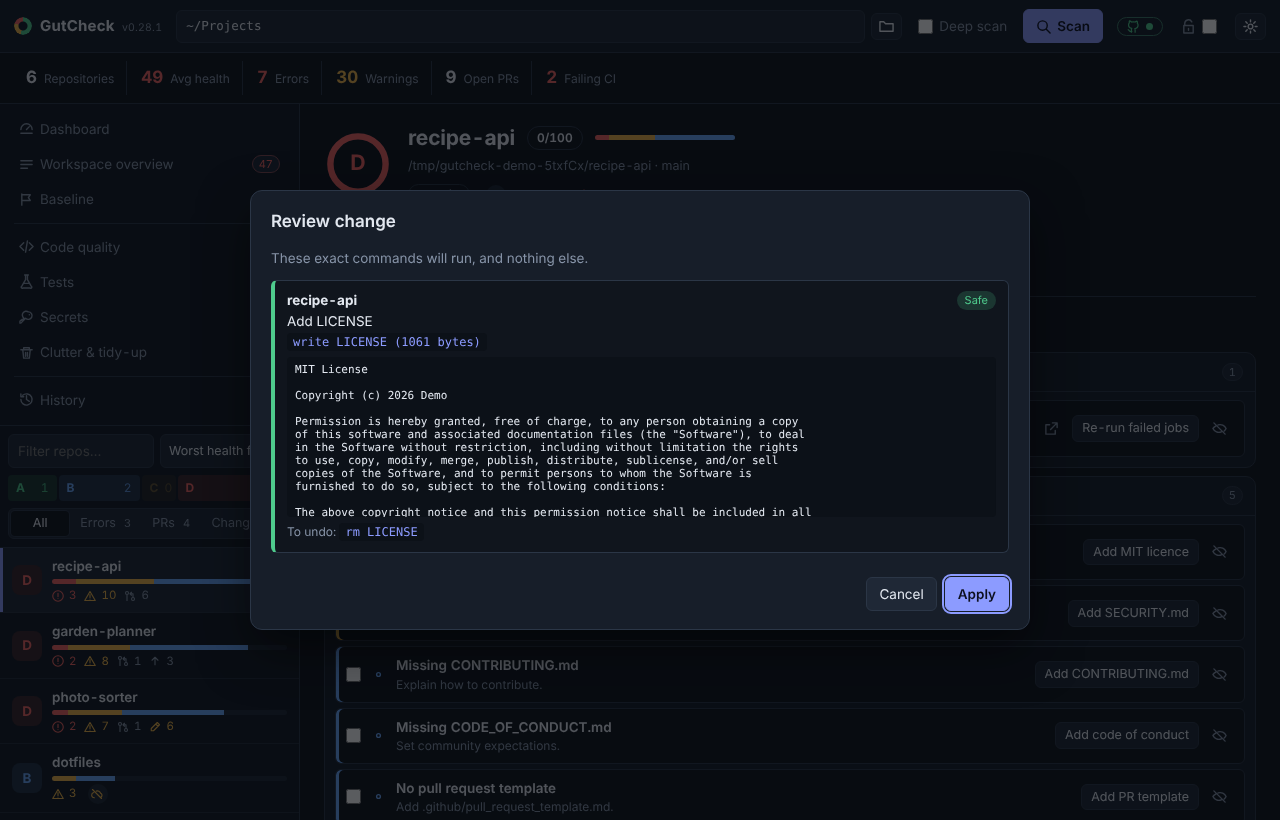
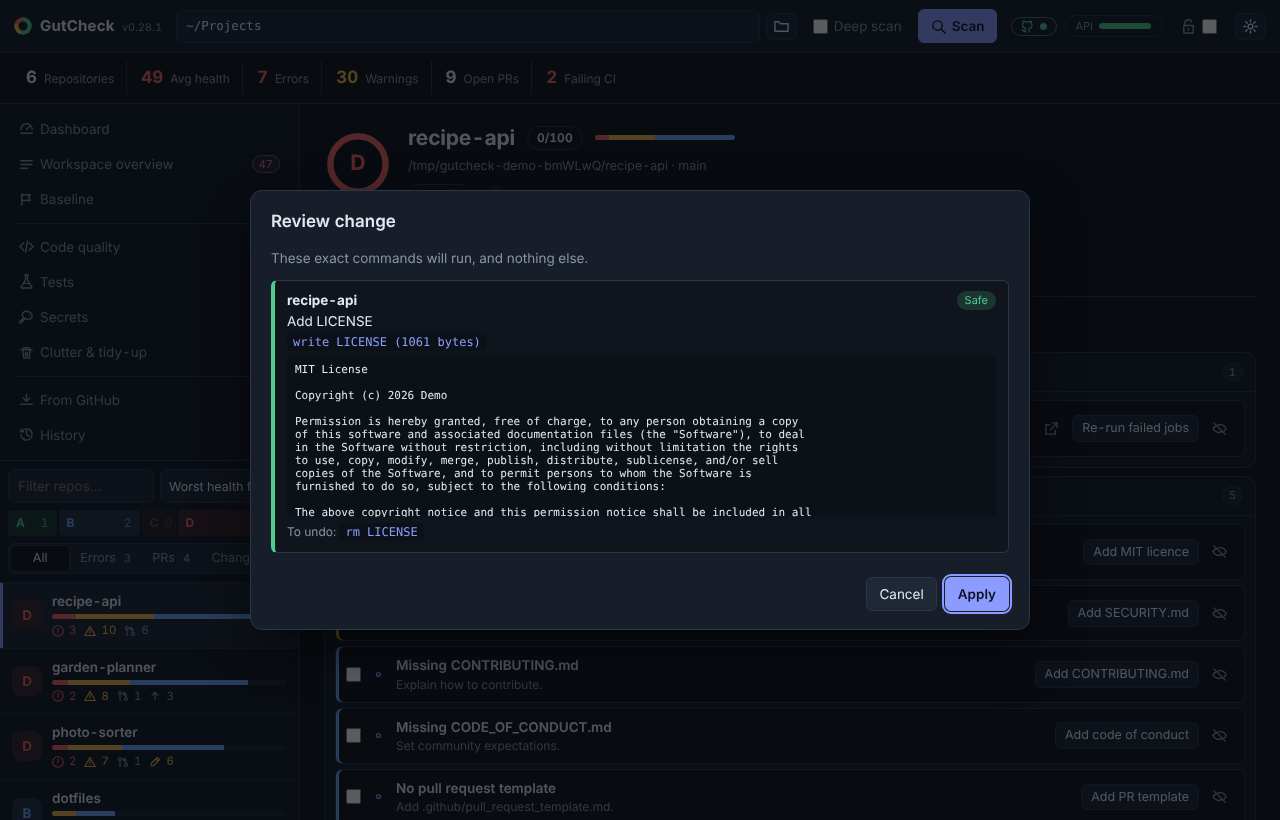
Describe the redesigned app in the README, with fresh screenshots (#10)
Adds a Using the app section (header, sidebar, repo page and tabs, bulk
actions, icons, read-only), updates the Dashboard, Actions and Ignoring
sections, and retakes every README screenshot from the demo workspace.
npm run screenshots now also takes bulk.png (ticked issues) and
github.png (From GitHub search), hides desktop scrollbars and stubs the
uQ theme channel.

Fixes a startup race the screenshots exposed: the startup code in app.js
could run before ui.js loaded, leaving the header without its gh pill
and lock icon ("UI is not defined"). It now waits for DOMContentLoaded.

Claude-Session: https://claude.ai/code/session_01HQqpuJkRXi5S6Yr5Bte71c

diff --git a/scripts/demo/screenshots.js b/scripts/demo/screenshots.js
@@ -15,6 +15,12 @@ const OUT = path.join(__dirname, '..', '..', 'docs', 'images');
 const SRC = path.join(__dirname, '..', '..', 'src');
 const DAY = 86400e3;
 const wait = (ms) => new Promise((r) => setTimeout(r, ms));
+const GITHUB_SEARCH = [
+  { owner: 'example', name: 'weather-cli', description: 'Forecasts in your terminal', stars: 12, language: 'Go', pushedAt: new Date(Date.now() - 2 * DAY).toISOString(), mine: true },
+  { owner: 'skyline-labs', name: 'weather-kit', description: 'Weather data client for Node and the browser', stars: 4210, language: 'TypeScript', pushedAt: new Date(Date.now() - 3 * DAY).toISOString() },
+  { owner: 'openmeteo-tools', name: 'weather-dash', description: 'A self-hosted weather dashboard', stars: 873, language: 'Python', pushedAt: new Date(Date.now() - 20 * DAY).toISOString() },
+  { owner: 'rainfall', name: 'weather-station', description: 'Firmware and logger for a home weather station', stars: 152, language: 'C', pushedAt: new Date(Date.now() - 400 * DAY).toISOString(), isArchived: true },
+];
 
 async function main() {
   const demo = await build();
@@ -51,6 +57,10 @@ async function main() {
     'drift:get': () => ({ file: '~/.config/GutCheck/baseline.json', rules: driftReport(demo.results, demo.baseline) }),
     'background:get': () => ({ launchOnStartup: true, minimizeToTray: true, closeToTray: true, trayAvailable: true, scheduleEnabled: true, scheduleHours: '24' }),
     'action:plan': (_e, { items }) => service.planActions(items),
+    'uq-tokens:read': () => null,
+    // From GitHub: made-up search results, one of them already in the demo folder.
+    'get:search': () => ({ ok: true, total: 41, repos: GITHUB_SEARCH.map((r) => ({ ...r, here: r.owner === 'example' ? path.join(demo.root, r.name) : null })) }),
+    'get:mine': () => ({ ok: true, repos: demo.results.map((r) => ({ owner: 'example', name: path.basename(r.path), here: r.path, mine: true })) }),
   };
   for (const ch of ['scan:one', 'action:apply', 'clutter:scan', 'quality:scan', 'tests:scan', 'quality:set', 'report:copy', 'settings:set', 'background:set', 'agents:status', 'agents:plan', 'agents:cleanup', 'agents:apply', 'agents:copy', 'open:url', 'open:folder', 'dir:pick', 'ignore:set', 'baseline:init', 'baseline:open']) H[ch] = H[ch] || (() => ({ ok: false, error: 'demo' }));
   for (const [ch, fn] of Object.entries(H)) ipcMain.handle(ch, fn);
@@ -58,6 +68,7 @@ async function main() {
   win = new BrowserWindow({ width: 1280, height: 820, show: true, backgroundColor: '#0f1115', webPreferences: { preload: path.join(SRC, 'preload.js'), contextIsolation: true, sandbox: true } });
   win.removeMenu();
   await win.loadFile(path.join(SRC, 'renderer', 'index.html'));
+  await win.webContents.insertCSS('::-webkit-scrollbar { display: none; }'); // the desktop's scrollbars are not part of the app
   const js = (code) => win.webContents.executeJavaScript(code);
   const shot = async (name) => { await wait(600); fs.writeFileSync(path.join(OUT, name), (await win.webContents.capturePage()).toPNG()); console.log('saved', name); };
   fs.mkdirSync(OUT, { recursive: true });
@@ -73,10 +84,18 @@ async function main() {
   await js("(document.querySelector('.modal button.primary') || {}).click && [...document.querySelectorAll('.modal button')].find((b) => b.textContent === 'Continue')?.click()");
   await shot('review.png');
   await js("document.querySelector('.overlay')?.remove()");
+  // Tick four of recipe-api's issues so the bulk action bar shows (each tick redraws the page).
+  for (let k = 1; k <= 4; k++) { await js(`document.querySelectorAll('.finding input.pick')[${k}].click()`); await wait(150); }
+  await shot('bulk.png');
   await js("document.getElementById('overview').click()");
   await shot('overview.png');
   await js("document.getElementById('baseline').click()");
   await shot('baseline.png');
+  await js("document.getElementById('github').click()");
+  await wait(300);
+  await js("(() => { const q = document.getElementById('ghq'); q.value = 'weather'; q.dispatchEvent(new Event('input')); })()");
+  await wait(800);
+  await shot('github.png');
   // GUTCHECK_SHOTS_ALL=<folder>: every other view and dialog too, for reviewing the UI (not the README).
   const all = process.env.GUTCHECK_SHOTS_ALL;
   if (all) {

diff --git a/src/renderer/app.js b/src/renderer/app.js
@@ -357,7 +357,9 @@ $('readonly').addEventListener('change', async (e) => {
   toast(state.readOnly ? 'Read-only mode on: no changes can be made.' : 'Read-only mode off: actions are enabled (each one still asks first).');
 });
 
-(async () => {
+// Startup waits for the page's other scripts (ui.js among them): an IPC reply can land between two
+// of them, and the header's icons would then fail with "UI is not defined".
+async function startup() {
   state.version = await window.api.version();
   $('version').textContent = state.version ? 'v' + state.version : '';
   const s = await window.api.settings();
@@ -373,4 +375,5 @@ $('readonly').addEventListener('change', async (e) => {
   pill.classList.add(a.ok ? 'ok' : 'bad');
   renderStats();
   showRate(await window.api.rate());
-})();
+}
+if (document.readyState === 'loading') document.addEventListener('DOMContentLoaded', startup); else startup();

diff --git a/README.md b/README.md
@@ -12,14 +12,15 @@
 
 A desktop dashboard that gives you a health check across every GitHub project in a folder. It is built on the [`gh` CLI](https://cli.github.com) and `git`, so it uses your existing GitHub login and never handles tokens itself. It also runs as a command line and as an MCP server, so AI coding agents can use the same checks and fixes.
 
-![The GutCheck dashboard: health grades, KPI cards and the repos that need attention](docs/images/dashboard.png)
+![The GutCheck dashboard: KPI cards grouped by Health, On GitHub and On this machine, the repo list with its grade bar, and the repos that need attention](docs/images/dashboard.png)
 
 - **One scan, every repo**: CI, pull requests, branches, docs, Actions security, dependencies, releases, settings, clutter, code quality, tests and AI agent setup, with a grade for each repo.
 - **Fixes you can see first**: every change shows the exact commands before it runs, and only those run.
+- **One at a time or many at once**: every issue, pull request, branch and missing file has its own button, and you can tick several and act on them together.
 - **Your own rules**: ignore a finding with a reason, and declare a baseline every repo should meet.
 - **Local and private**: no account, no server, no telemetry. GitHub data comes through your own `gh` login.
 
-[What it checks](#what-it-checks) · [Screenshots](#screenshots) · [Actions](#actions) · [Command line and MCP](#command-line-and-mcp-server-for-ai-agents) · [Install](#install) · [Changelog](CHANGELOG.md)
+[What it checks](#what-it-checks) · [Using the app](#using-the-app) · [Clone and fork](#clone-and-fork-from-github) · [Actions](#actions) · [Command line and MCP](#command-line-and-mcp-server-for-ai-agents) · [Install](#install) · [Changelog](CHANGELOG.md)
 
 ## What it checks
 
@@ -61,21 +62,39 @@ GutCheck can also check your GitHub repos that have no folder in the workspace. 
 - **Your repos:** every repo you own, filtered to the ones not here. Tick several and clone them together.
 - A repo in the list that is only on GitHub (see below) has **Clone here** on its page.
 
+![From GitHub: search results for "weather", one already in the folder and three with Clone and Fork](docs/images/github.png)
+
 Each is a normal change: the review shows the exact `gh repo clone` or `gh repo fork --clone` command and the folder it creates, nothing runs until you apply it, and History records it. A clone never goes on top of an existing folder or outside the scanned one, submodules are not fetched, and nothing in the repo runs. A fork makes your fork `origin` and the original `upstream`. The new clone joins the repo list straight away.
 
-## Screenshots
+## Using the app
+
+The app is built to show state rather than describe it, keep lists short, and let you act on one thing or many.
+
+- **Header**: the workspace folder, **Scan** (tick **Deep scan** for the slower checks), whether `gh` is signed in, a small gauge of the GitHub API quota left, the **Read-only** switch and Settings. Under it, the workspace totals: repos, average health, errors, warnings, open PRs and failing CI.
+- **Sidebar**: the Dashboard, Workspace overview, Baseline, the deeper scans (Code quality, Tests, Secrets, Clutter & tidy-up), From GitHub and History, with counts where there is something to see. Below them is the repo list: a grade bar (click a grade to show only those repos), quick filters (errors, PRs, uncommitted or unpushed work), a text filter and sort, and a severity strip on every repo.
+- **A repo page** opens with a score ring (its grade and score out of 100), a severity strip, and its live git state: branch, uncommitted changes, commits to push or pull, open PRs and CI. Then **Fix all issues** and icon buttons to rescan, fetch and prune, open the folder, open it on GitHub and copy the report for an LLM. The rest is split into tabs, each with its count:
+  - **Issues**, folded by category and filtered by severity. Each has its own fix and an ignore button.
+  - **Pull requests**, to merge, close or mark ready, one at a time or together.
+  - **Branches**, filtered to merged, stale, local only or remote only, with switch, merge and delete on each, plus new branch, pull, push and a rescue copy.
+  - **Settings**: each protection and security feature shown as on, off or unknown, with the button that changes it.
+  - **Files**: the project files it is missing, to add one by one or together.
+- **Bulk actions**: tick issues, pull requests, branches, files, secrets or your own GitHub repos, and a bar appears with what can be done to all of them at once (fix, ignore, merge, close, delete, add, clone). The tick box at the top selects everything shown.
+- **Icons**: repeated buttons and states (refresh, folder, GitHub, copy, ignore, open, switch, merge, delete, and the branch, clutter and secret badges) are icons. Hover one for a tooltip naming what it acts on; screen readers get the words.
+- **Read-only**: with the switch on, a band under the header says so and every change button is greyed out.
 
 All screenshots show a made-up demo workspace (`npm run screenshots` rebuilds them).
 
-| A repo and its findings | Every change is reviewed first |
+| A repo: score ring, live git state and tabs | Tick several issues to fix or ignore them together |
 |---|---|
-| ![A repo view: failed CI, missing files and Dependabot alerts, each with a fix and an Ignore button](docs/images/repo.png) | ![The review dialog: the exact file GutCheck will write and how to undo it](docs/images/review.png) |
-| **The same issue across repos** | **Baseline drift** |
-| ![The workspace overview: recommendations grouped across repos, with Fix all](docs/images/overview.png) | ![The Baseline view: each rule and the repos missing it](docs/images/baseline.png) |
+| ![A repo page: a D score ring, branch and CI state, tabs for Issues, Pull requests, Branches, Settings and Files, and issues folded by category with a fix and an ignore button each](docs/images/repo.png) | ![Four issues ticked on a repo page, with a bar offering Fix selected (4) and Ignore selected](docs/images/bulk.png) |
+| **Every change is reviewed first** | **The same issue across repos** |
+| ![The review dialog: the exact file GutCheck will write and how to undo it](docs/images/review.png) | ![The workspace overview: issue types folded by severity, the affected repos as chips, and Fix all buttons](docs/images/overview.png) |
+| **Baseline drift** | **Clone and fork from GitHub** |
+| ![The Baseline view: each rule, how many repos meet it and the ones missing it](docs/images/baseline.png) | ![From GitHub: search results as you type, with Clone and Fork on each, and Here on a repo already in the folder](docs/images/github.png) |
 
 ## Actions
 
-Everything is done from the repo view, or in bulk from the workspace overview ("Fix all N").
+Everything is done from the repo page, one item at a time or by ticking several (see [Using the app](#using-the-app)), or across repos from the workspace overview ("Fix all N", or tick issue types to fix them in every repo in one go).
 
 **Fix all issues** (on each repo) gathers every fix for that repo into one plan. Fixes that only you can choose come first, in a short wizard: a commit message for your uncommitted work, merging or closing a pull request, a description, installing packages or running the tests (those two start on "leave it", because they run the project's code). Then one review lists every step in the order a developer would do them: pull, `.gitignore` rules (so caches and `.env` files are not committed with your work), your commit, dependencies, new project files (each its own commit), local clean-up, push, then GitHub settings and pull requests, and test runs last. Within a step, worse issues go first. Untick anything you do not want; nothing runs until you press Apply. From the command line, `gutcheck fix <repo> all` shows the same plan and the choices left to you; agents use `gutcheck_plan` with `{ repo, all: true }`. Before anything runs, GutCheck shows the **exact commands** in a review dialog, and only those commands run. Dangerous actions make you type the repo name.
 
@@ -97,7 +116,7 @@ Safety rails: a **Read-only** switch in the header disables every action, every 
 
 ## Dashboard
 
-After a scan GutCheck opens on a **Dashboard**: KPI cards (average health, errors, warnings, open PRs, failing CI, uncommitted and unpushed work, high-severity alerts, merged and stale branches, local-only repos, missing licences, reclaimable clutter) and charts for grade distribution, issues by category, repo activity, open PR age, health per repo and clutter size per repo. Click a repo bar, an attention row or a card to drill in. It is computed from the scan you already have, so it makes no extra GitHub calls; the clutter numbers appear once you run a clutter scan from the dashboard.
+After a scan GutCheck opens on a **Dashboard**: KPI cards in four groups (**Health**: repos, average health, errors, warnings; **On GitHub**: open PRs, failing CI, high-severity alerts, missing licences; **On this machine**: uncommitted and unpushed work, merged and stale branches, local-only repos; **Deeper scans**: clutter and code quality, started from their cards) and charts for grade distribution, issues by category, repo activity, open PR age, health per repo and clutter size per repo. Click a repo bar, an attention row or a card to drill in. It is computed from the scan you already have, so it makes no extra GitHub calls; the clutter numbers appear once you run a clutter scan from the dashboard.
 
 An **issue heatmap** shows repos against problem categories (darker means more issues, colour is the worst severity). **Trends** show average health, errors and warnings, and clutter size across scans, and the cards show the change since the previous scan, plus the repos whose score moved most. GutCheck keeps one small snapshot per scan (scores and totals only, no paths or file names) in `trend.json` in its app data folder, scoped per workspace folder, capped at 365 snapshots; scans within 10 minutes of each other replace one another. Delete the file to reset the history.
 
@@ -283,7 +302,7 @@ The result lists enabled plugins nothing used, skills (yours and each repo's) no
 
 ## Ignoring findings
 
-Not every finding fits every repo. **Ignore…** on a finding (or `gutcheck ignore <repo> <finding> <reason>`) asks why, then takes it out of the score, the dashboard and the report; it stays listed under **Ignored** with your reason, and **Stop ignoring** brings it back. Tick **Ignore it in every repo** (`--all`) for findings you never want. A finding id ending in `*` covers a family (`pr-stale-*`). Ignores live in `ignores.json` in GutCheck's data folder, keyed by `owner/name`, so they survive a fresh clone. A `*` needs at least 3 characters before it (`no-*`); older rules without them are listed by `gutcheck ignored` as not applied. A repo can also carry its own in `.gutcheck.json` (`{ "ignore": { "no-topics": "internal tool" } }`), which everyone who scans it shares. Whoever controls a repo writes that file, so its rules cannot hide errors, security findings (workflows, credentials, secrets, GitHub's security features), your baseline, or uncommitted and unpushed work, and a `*` there needs at least 4 characters before it. The "Copy for LLM" report lists ignored findings by who ignored them: yours with your reasons, an AI agent's (through MCP) with its reasons quoted, and the repo's own without its reasons, never as your decision. Every ignore is recorded in History, Read-only mode blocks ignoring and creating a baseline, and agents can only ignore through an MCP server started with `--allow-actions`, never an error or a security finding (they are told to ask you).
+Not every finding fits every repo. **Ignore** on a finding (the crossed-out eye; tick several issues to ignore them together) (or `gutcheck ignore <repo> <finding> <reason>`) asks why, then takes it out of the score, the dashboard and the report; it stays listed under **Ignored** with your reason, and **Stop ignoring** brings it back. Tick **Ignore it in every repo** (`--all`) for findings you never want. A finding id ending in `*` covers a family (`pr-stale-*`). Ignores live in `ignores.json` in GutCheck's data folder, keyed by `owner/name`, so they survive a fresh clone. A `*` needs at least 3 characters before it (`no-*`); older rules without them are listed by `gutcheck ignored` as not applied. A repo can also carry its own in `.gutcheck.json` (`{ "ignore": { "no-topics": "internal tool" } }`), which everyone who scans it shares. Whoever controls a repo writes that file, so its rules cannot hide errors, security findings (workflows, credentials, secrets, GitHub's security features), your baseline, or uncommitted and unpushed work, and a `*` there needs at least 4 characters before it. The "Copy for LLM" report lists ignored findings by who ignored them: yours with your reasons, an AI agent's (through MCP) with its reasons quoted, and the repo's own without its reasons, never as your decision. Every ignore is recorded in History, Read-only mode blocks ignoring and creating a baseline, and agents can only ignore through an MCP server started with `--allow-actions`, never an error or a security finding (they are told to ask you).
 
 ## Baseline
 
@@ -333,7 +352,7 @@ npm install
 npm start      # run the app
 npm test       # unit tests
 npm run dist   # build the AppImage into dist/
-npm run screenshots   # rebuild docs/images from a made-up demo workspace (needs a desktop session)
+npm run screenshots   # rebuild docs/images from a made-up demo workspace (needs a desktop session, or xvfb-run)
 ```
 
 [AGENTS.md](AGENTS.md) describes the layout and the rules every change follows (read-only scans, plan, preview, apply, files under 400 lines). [CONTRIBUTING.md](CONTRIBUTING.md) covers pull requests, and [docs/sources.md](docs/sources.md) where each check comes from.

diff --git a/CHANGELOG.md b/CHANGELOG.md
@@ -21,6 +21,8 @@ All notable changes to GutCheck. The format follows [Keep a Changelog](https://k
   - Read-only mode shows a band under the header and a locked switch. The GitHub API quota is a small gauge, and error messages stay until dismissed.
   - Repeated actions and states are icons instead of words: refresh, folder, GitHub, copy, ignore, open, close, switch, merge and delete buttons, and badges for branch, clutter and secret states. Each keeps its words for screen readers and in a tooltip that names what it acts on. Errors and warnings get different shapes, not just different colours.
 
+- The README describes the redesigned app (a new "Using the app" section: the header, sidebar, repo page and its tabs, bulk actions, icons and read-only mode) and has fresh screenshots, including ticking several issues at once and the From GitHub view. `npm run screenshots` takes those two as well.
+
 - `npm test` runs through `scripts/test.js`, which gives the tests one private temp folder and removes it afterwards. The tests used to leave their throwaway repos in the shared temp folder: about 4,500 folders and 3.5 GB after a day's runs.
 
 ### Security
@@ -61,6 +63,7 @@ All notable changes to GutCheck. The format follows [Keep a Changelog](https://k
 
 ### Fixed
 
+- The header could start without its GitHub sign-in pill and with a blank Read-only switch. The app's startup ran as soon as `app.js` loaded, and when its first replies came back before `ui.js` had loaded it stopped with "UI is not defined". It now waits for the page's scripts.
 - The rescue copy saves uncommitted changes made after the last scan. It took "nothing uncommitted" from the scan, so edits made since were left out of the copy with no warning; it now asks git when the plan is made.
 - Ignored findings stay ignored when GitHub cannot be reached (offline, rate limit, `gh` logged out). The repo's key fell back to its folder name, so its ignores stopped applying, the findings came back and the score dropped until the next good scan.
 - A detached HEAD is no longer listed as a merged branch ("1 local branch already merged: (HEAD detached at …)") with a delete fix.
